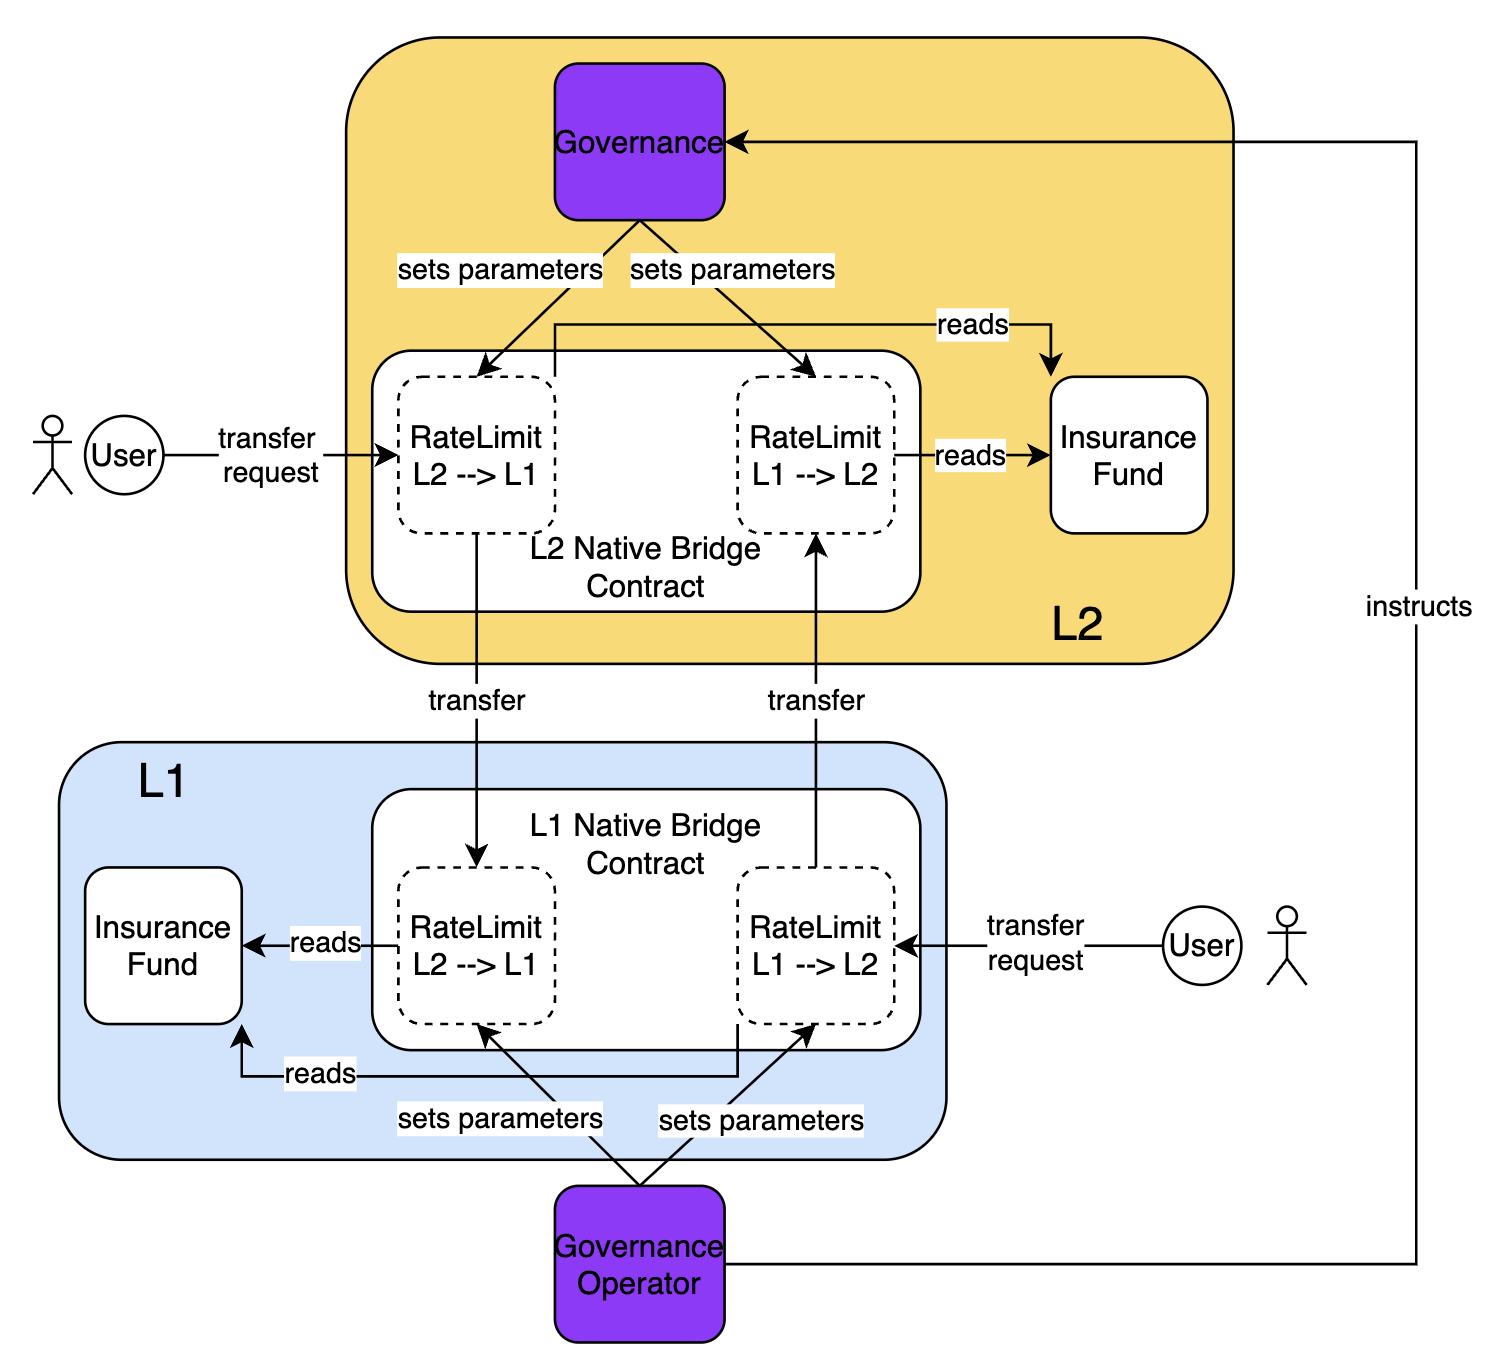
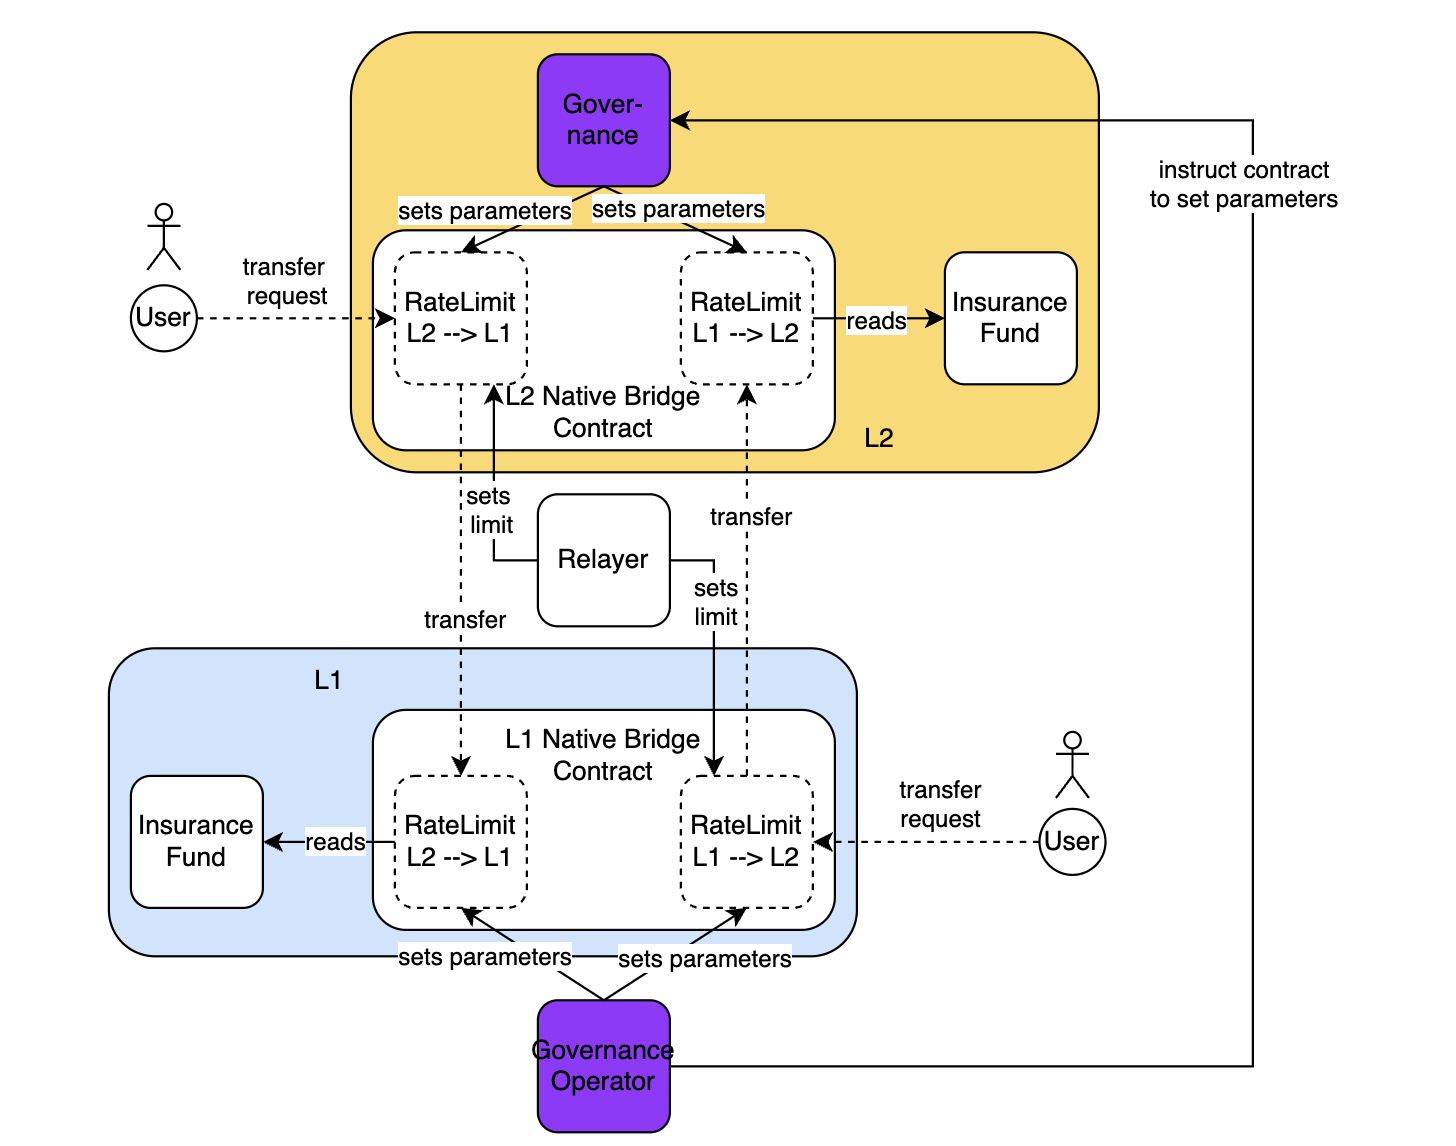
propose trusted insurance Fund

Changed region(s): [[0.0309, 0.0, 0.9581, 1.0], [0.8963, 0.4276, 0.989, 0.4581], [0.2473, 0.0305, 0.2782, 0.0611]]

diff --git a/MIP/mip-88/README.md b/MIP/mip-88/README.md
@@ -16,12 +16,18 @@ Moreover, we may assume that the inflow to and outflow from \$MOVE tokens is the
 
 ## Specification
 
-_The key words "MUST", "MUST NOT", "REQUIRED", "SHALL", "SHALL NOT", "SHOULD", "SHOULD NOT", "RECOMMENDED", "NOT RECOMMENDED", "MAY", and "OPTIONAL" in this document are to be interpreted as described in RFC 2119 and RFC 8174._
+> _The key words "MUST", "MUST NOT", "REQUIRED", "SHALL", "SHALL NOT", "SHOULD", "SHOULD NOT", "RECOMMENDED", "NOT RECOMMENDED", "MAY", and "OPTIONAL" in this document are to be interpreted as described in RFC 2119 and RFC 8174._
 
-The Insurance Fund MUST hold the same balance on L1 and L2. If so the rate limit on the source chain can be determined by the same method as on the target chain. This has the advantage, that the Governance Operator does not have to set the rate limint on the source chain, as requested in [MIP-74](https://github.com/movementlabsxyz/MIP/pull/74).
+### Symmetric Insurance Fund
+
+There are two Insurance Funds, one on the L1 (`L1InsuranceFund`) and one on the L2 (`L2InsuranceFund`). In this simplified design `L1InsuranceFund` MUST hold the same balance as `L2InsuranceFund`, i.e. 
+
+Value (`L1InsuranceFund`) = Value (`L2InsuranceFund`) = `InsuranceFundValueOnChain`
+
+Due to the symmetry the rate limit on the source chain can be determined by the same equation as on the target chain. This has the advantage, that the Governance Operator does not have to set the rate limit on the source chain, as requested in [MIP-74](https://github.com/movementlabsxyz/MIP/pull/74).
 
 ![alt text](overview.png)
-_Figure 1: Architecture of the Rate Limitation system_
+_Figure 1: Architecture of the Rate Limitation system with symmetric Insurance Fund_
 
 We define
 
@@ -33,7 +39,32 @@ The Insurance Fund on a given chain thus MUST be used to
 - one half for the rate limit for incoming direction
 - one half for the rate limit for outgoing direction
 
-Moreover, if we register the budget on a daily basis, for security reasons, we MUST only utilize one half of each direction's Insurance fund budget per day. This leads (for a given direction) to a budget of 1/4 of the Insurance Fund per day.
+Moreover, if we register the budget on a daily basis, for security reasons, we MUST only utilize one half of each direction's Insurance fund budget per day. However, since the same Insurance Fund value exists on either side, we add up the allocated values from `L1InsuranceFund` and `L2InsuranceFund` for a given direction. Concretely this leads to the rate limits being
+
+$$
+rateLimit (L1→L2, \text{on source}) = rateLimit (L1→L2, \text{on target}) \\
+= rateLimit (L2→L1, \text{on source}) = rateLimit (L2→L1, on target) \\
+= \texttt{InsuranceFundValueOnChain} / 2
+$$
+
+### Trusted Governance Operator informs about Insurance Fund Value
+
+This section extends the ideas of the previous section.
+
+We can simplify our approach even further based on the trust assumptions on the Governance Operator. Since we trust the Governance Operator to allocate symmetrically funds to the insurance fund `L1InsuranceFund` and `L2InsuranceFund`, we MAY **go a step further** and also trust the Governance Operator to **report honestly and timely** about the balance on the Insurance Fund.
+
+![alt text](overview.png)
+_Figure 2: Architecture of the Rate Limitation system with Insurance Fund only on one Layer_
+
+Let there be an Insurance Fund on the L2 (`L2InsuranceFund`) with token amount of value `InsuranceFundValueOnChain`. The Governance Operator MUST provide the value `InsuranceFundValueOnChain` to the Rate Limitation contract on L1 in a timely manner and reliably. Similar to the previous section, if we register the budget on a daily basis, for security reasons, we MUST only utilize one half of each direction's Insurance fund budget per day.
+
+Since compared to the previous solution the funds are only held on one chain the rate limitation is now calculated as follows:
+
+$$
+rateLimit (L1→L2, \text{on source}) = rateLimit (L1→L2, \text{on target}) \\
+= rateLimit (L2→L1, \text{on source}) = rateLimit (L2→L1, on target) \\
+= \texttt{InsuranceFundValueOnChain} / 4
+$$
 
 ## Reference Implementation
 
